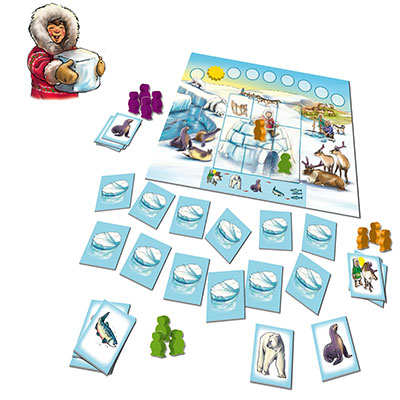
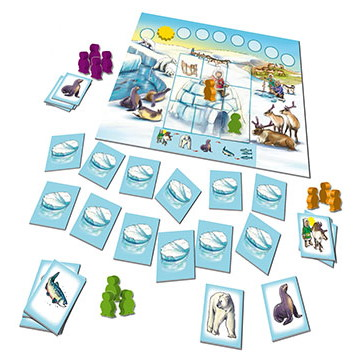
add board overview picture to Readme

diff --git a/README.md b/README.md
@@ -1,5 +1,7 @@
 # [Enuk](https://ruszkipista.github.io/cims02-enuk/)
-Interactive website to play [Enuk](https://boardgamegeek.com/boardgame/36554/enuk) boardgame in the browser. This project is the second milestone in obtaining a [Full Stack Web Development](https://codeinstitute.net/full-stack-software-development-diploma/) diploma from [Code Institute](https://codeinstitute.net/)
+This is an interactive webpage to play [Enuk boardgame](https://boardgamegeek.com/boardgame/36554/enuk) in a browser. It is my second milestone in obtaining the [Full Stack Web Development](https://codeinstitute.net/full-stack-software-development-diploma/) diploma from [Code Institute](https://codeinstitute.net/)
+
+![Enuk boardgame during play](./assets/doc/enuk-game-state.jpg)
 
 **Game Classification**
 * Category
